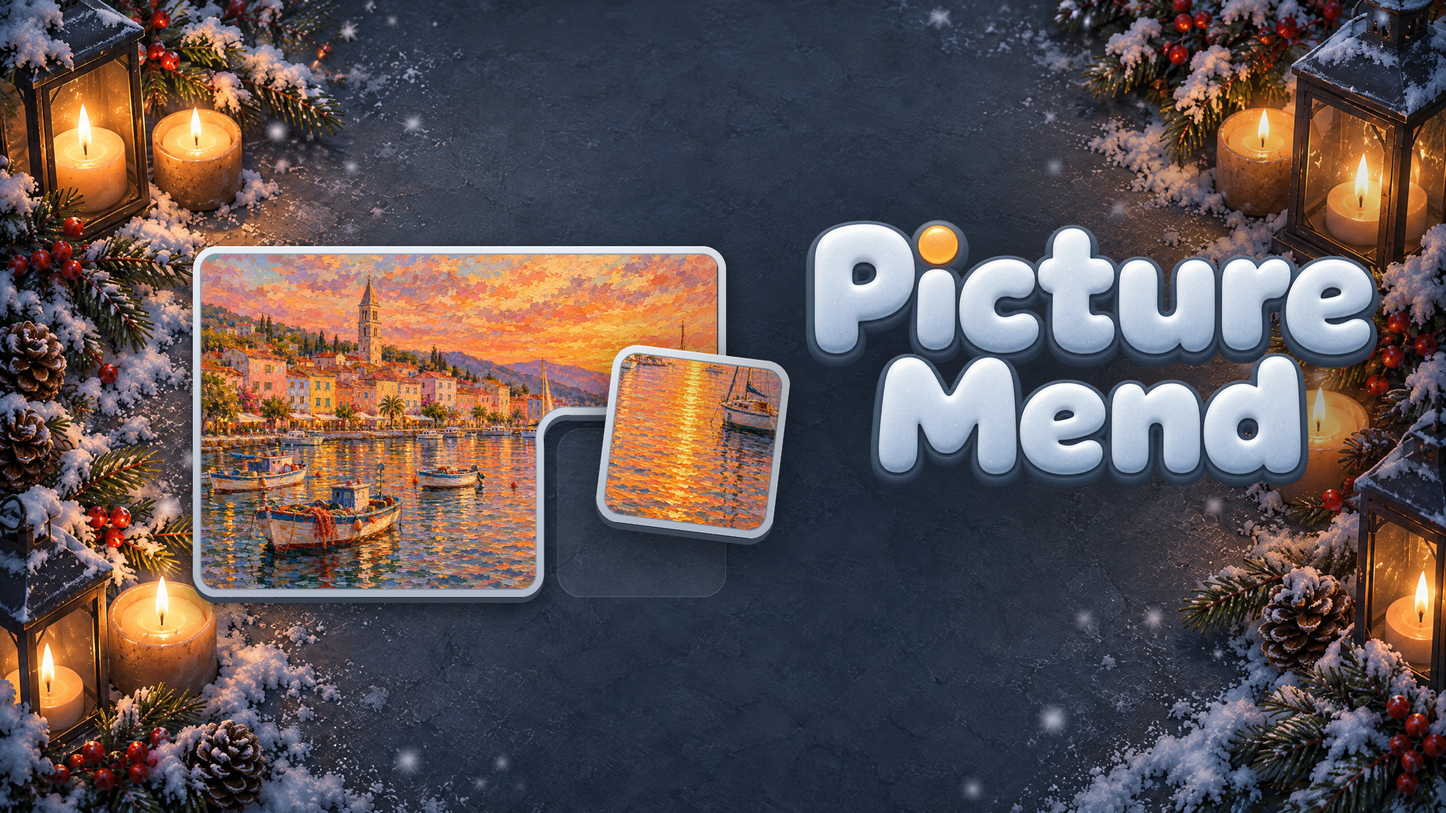
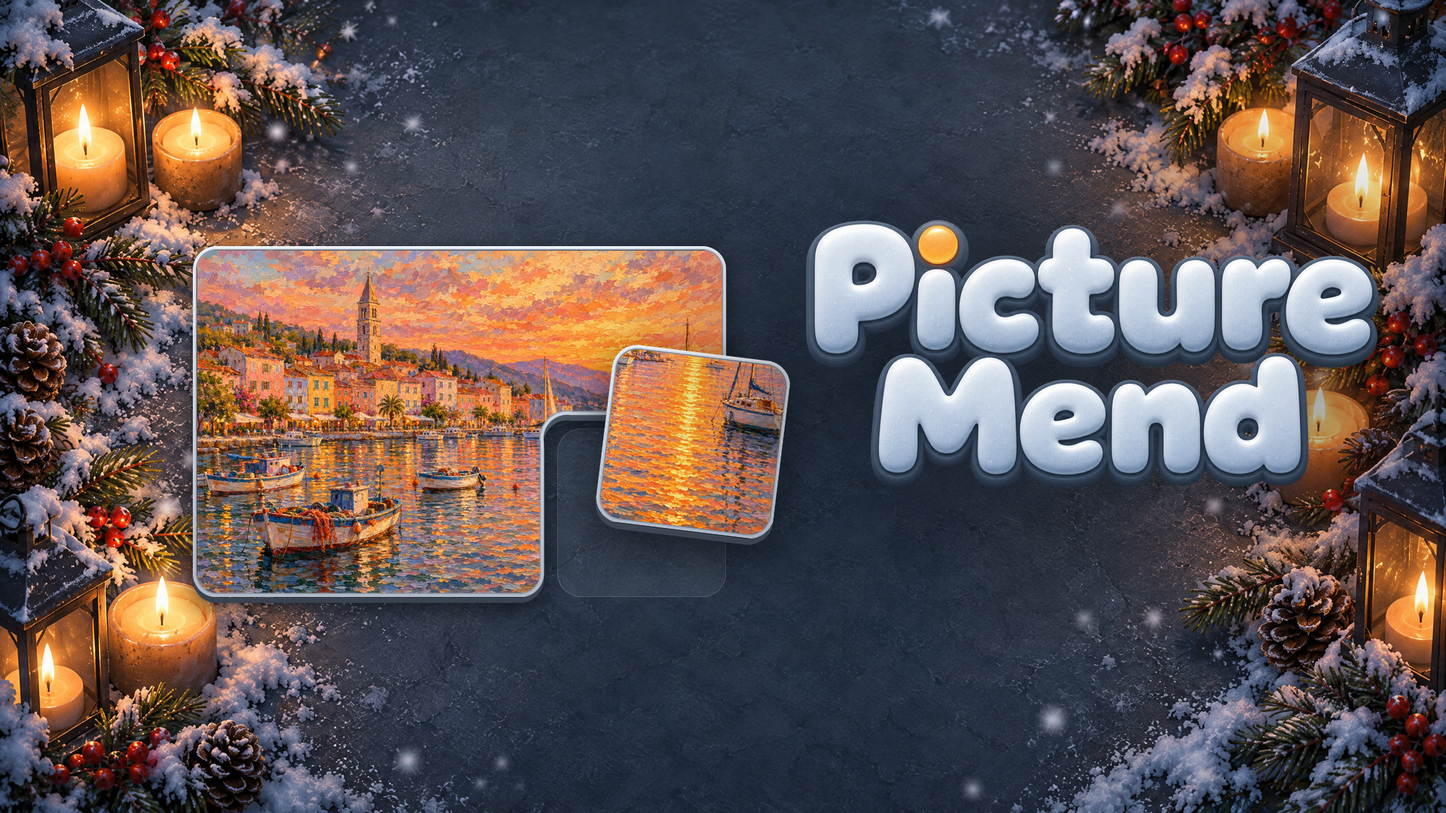
Art: thin frames in the frame spec and the store art
The creator asked for frames about half as thick: rim 0.025 s (min 2 CSS px),
window radius concentric (0.115 s), concave corners 0.14 s + rim, matching
Gameplay's db08b18. Re-rendered the key art, both tiles, the share card and the
Autumn Study item icon; mockup.py draws the same.

Changed region(s): [[0.125, 0.3056, 0.5625, 0.7333]]

diff --git a/tools/art/mockup.py b/tools/art/mockup.py
@@ -17,7 +17,7 @@ ROOT = Path(__file__).resolve().parents[2]
 SS = 3  # supersampling for smooth rounded edges
 
 # Frame spec, as fractions of the cell size s (see chrome-spec.md).
-RIM, R_OUT, R_IN, LIP, SHADOW_Y, SHADOW_BLUR = 0.05, 0.14, 0.09, 0.035, 0.04, 0.06
+RIM, R_OUT, R_IN, LIP, SHADOW_Y, SHADOW_BLUR = 0.025, 0.14, 0.115, 0.035, 0.04, 0.06  # thin frames (creator, 2026-10-23)
 RIM_TOP, RIM_BOTTOM, RIM_LINE = (233, 238, 245), (176, 186, 200), (139, 151, 168)
 LIP_TOP, LIP_BOTTOM = (93, 105, 121), (52, 61, 74)
 

diff --git a/tools/art/chrome-spec.md b/tools/art/chrome-spec.md
@@ -36,8 +36,8 @@ All sizes are fractions of the cell size `s` (one square card, without its gutte
 | --- | --- |
 | gutter between cells | `0.08 s` (thin and even) |
 | outer corner radius | `0.14 s` |
-| frosted rim width | `0.05 s` (never under 3 CSS px) |
-| picture window corner radius | `0.09 s` |
+| frosted rim width | `0.025 s` (never under 2 CSS px). Thin: the creator asked for frames half as thick (2026-10-23); in the game it is tunable as `board.frame` / `board.frameMin` |
+| picture window corner radius | concentric: `0.14 s` minus the rim (`0.115 s` above the 2 px floor); an inner (concave) corner of a merged piece `0.14 s` plus the rim |
 | rim fill | vertical gradient `#e9eef5` (top) to `#b0bac8` (bottom), plus a 1 px `#f4f7fb` highlight along the top edge |
 | hairline where rim meets picture | 1 px `#8b97a8` |
 | lip (the card's thickness, showing below its face) | same rounded shape shifted down `0.035 s`, gradient `#5d6979` to `#343d4a` |
